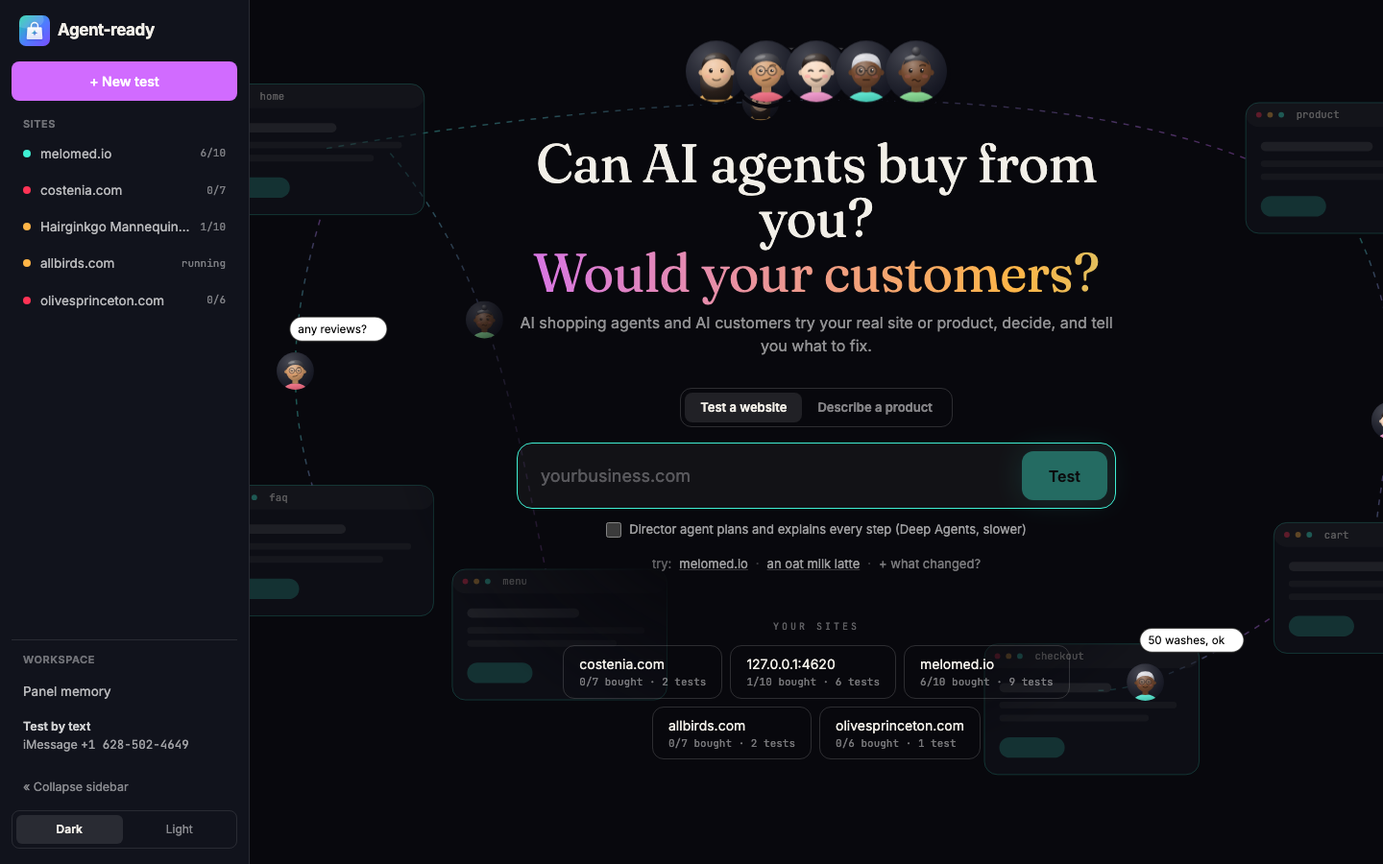
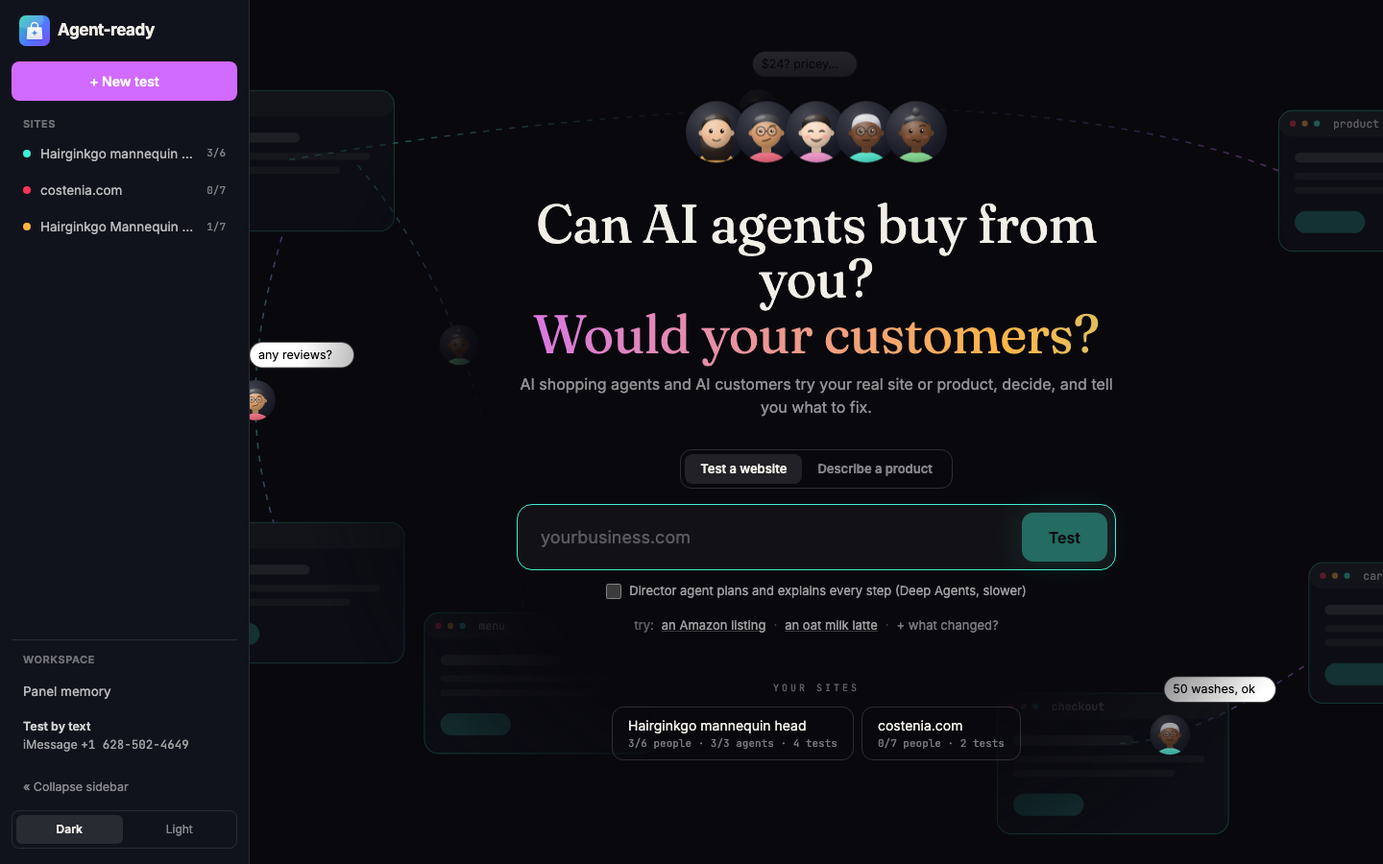
readme uses a real amazon listing instead of melomed: new screenshots (summary, panel, map, gemini friction hotspots, word of mouth, pdf, persona journey); gemini 3.5 flash (has free quota); funnel no longer drops on one-page stores; missing tests show a message instead of a blank page; 'an Amazon l

diff --git a/web/src/Simulate.tsx b/web/src/Simulate.tsx
@@ -88,6 +88,7 @@ const host = (u: string) => u.replace(/^https?:\/\//, "").replace(/\/.*$/, "");
 
 export function SimView({ id }: { id: string }) {
   const [sim, setSim] = useState<Sim | null>(null);
+  const [missing, setMissing] = useState(false);
   const [cast, setCast] = useState<Persona[] | null>(null);
   const [editing, setEditing] = useState<{ p: Persona; isNew: boolean } | null>(null);
   const [showWhy, setShowWhy] = useState(false);
@@ -111,13 +112,14 @@ export function SimView({ id }: { id: string }) {
 
   useEffect(() => {
     let alive = true;
-    const tick = () => fetch(`/api/sims/${id}`).then((r) => r.json()).then((s: Sim) => { if (alive) { setSim(s); if (s.status === "awaiting_approval" && !cast) setCast(s.personas); } }).catch(() => {});
+    const tick = () => fetch(`/api/sims/${id}`).then((r) => r.json()).then((s: Sim) => { if (alive && !s.id) setMissing(true); if (alive && s.id) { setSim(s); if (s.status === "awaiting_approval" && !cast) setCast(s.personas); } }).catch(() => {});
     tick();
     const building = !sim || ["casting", "briefing", "resuming"].includes(sim.status);  // stream the agent's reasoning smoothly
     const t = setInterval(() => { if (!sim || !["done", "error"].includes(sim.status)) tick(); }, building ? 600 : 1500);
     return () => { alive = false; clearInterval(t); };
   }, [id, sim?.status]); // eslint-disable-line
 
+  if (missing) return <div className="grid h-[60vh] place-items-center text-center text-white/60"><div><p className="text-[18px]">This test isn't here anymore.</p><a href="#" className="mt-3 inline-block underline">Start a new test</a></div></div>;
   if (!sim) return <div className="grid h-[60vh] place-items-center font-mono text-white/40">loading…</div>;
 
   async function recast() {
@@ -158,7 +160,7 @@ export function SimView({ id }: { id: string }) {
     <div className="mx-auto max-w-[1400px] px-6 pb-16">
       {/* one headline that always says what is happening */}
       <div className="pt-6 text-center">
-        <div className="font-mono text-[12px] text-white/40">{sim.round ? <span className="mr-2 rounded-full px-2 py-0.5 font-semibold text-black" style={{ background: C.brain }}>round {sim.round + 1} · they remember round {sim.round}</span> : null}{host(sim.input.url)}{sim.input.context ? ` · ${sim.input.context}` : ""}{sim.input.world ? ` · ${sim.input.world}` : ""}</div>
+        <div className="font-mono text-[12px] text-white/40">{sim.round ? <span className="mr-2 rounded-full px-2 py-0.5 font-semibold text-black" style={{ background: C.brain }}>round {sim.round + 1} · they remember round {sim.round}</span> : null}{/\/api\/product\//.test(sim.input.url) ? "Amazon listing, rebuilt from the public Amazon Reviews 2023 dataset" : host(sim.input.url)}{sim.input.context ? ` · ${sim.input.context}` : ""}{sim.input.world ? ` · ${sim.input.world}` : ""}</div>
         <h1 className="mt-2 font-serif text-[40px] leading-tight">
           {["casting", "briefing"].includes(sim.status) && <>Casting customers for {name}<span className="animate-pulse">…</span></>}
           {sim.status === "awaiting_approval" && <>Review your test panel</>}
@@ -434,12 +436,13 @@ function funnel(sim: Sim) {
   const people = sim.personas.filter((p) => p.kind !== "agent");
   const steps = (id: string) => sim.live[id] ?? [];
   const landed = people.filter((p) => steps(p.id).length > 0);
-  const explored = landed.filter((p) => new Set(steps(p.id).map((x) => x.url.split("#")[0])).size > 1);
   const bought = landed.filter((p) => outcome(sim, p.id) === "bought");
   const acted = landed.filter((p) => steps(p.id).some((x) => x.cart) || outcome(sim, p.id) === "bought");
+  // A one-page store has nothing to click past, so scrolling on or acting counts as engaging. Keeps the funnel monotonic.
+  const explored = landed.filter((p) => steps(p.id).length > 1 || acted.includes(p));
   return [
     { label: "Landed on the site", n: landed.length },
-    { label: "Explored past the first page", n: explored.length },
+    { label: "Kept looking past the first screen", n: explored.length },
     { label: "Reached a buy decision (cart, buy, download)", n: acted.length },
     { label: "Converted", n: bought.length },
   ];

diff --git a/data/amazon_pages/B09LHS6RGF.html b/data/amazon_pages/B09LHS6RGF.html
@@ -1,0 +1,12 @@
+<!doctype html><html><head><meta charset="utf-8"><title>Hairginkgo Mannequin Head 100% Real Hair Manikin Head Styling Hairdresser Training Head Cosmetology Doll Head for Dyeing Cutting Braiding Practice with Clamp Stand (2022B0214)</title>
+<style>body{font-family:system-ui,sans-serif;max-width:980px;margin:24px auto;padding:0 16px;color:#111}
+.grid{display:grid;grid-template-columns:380px 1fr;gap:32px}img{max-width:100%;border-radius:12px}
+.price{font-size:28px;font-weight:700;margin:8px 0}button{background:#ffd814;border:0;border-radius:20px;padding:12px 28px;font-size:16px;cursor:pointer}
+th{text-align:left;padding-right:12px;color:#555}</style></head><body>
+<div class="grid"><div><img src="https://m.media-amazon.com/images/I/41anWv1qtQL.jpg" alt="Hairginkgo Mannequin Head 100% Real Hair Manikin Head Styling Hairdresser Training Head Cosmetology Doll Head for Dyeing Cutting Braiding Practice with Clamp Stand (2022B0214)"></div><div>
+<h1>Hairginkgo Mannequin Head 100% Real Hair Manikin Head Styling Hairdresser Training Head Cosmetology Doll Head for Dyeing Cutting Braiding Practice with Clamp Stand (2022B0214)</h1><div>by HAIRGINKGO</div>
+<div class="price">$27.99</div>
+<button onclick="this.textContent='Added to cart ✓'">Add to Cart</button>
+<h3>About this item</h3><ul><li>★ Individual Hair Strand:14 inches.</li><li>★ Material: 100% real hair, Color: #2 Black.</li><li>★ Professional - Ideal for Braiding,Curling,Cutting,Heat styled,Styling,etc.Perfect for cosmetology school and in salon education.Can be used by hairdresser, hair stylist, barber shop and the cosmetology school students.</li><li>★ Entertaining &amp; Learning - Doing hair with your kid, cultivate hands-on ability and develop imagination, this Training Head could be the bridge that sharing wonderful time with your kids.</li><li>★ Come with Free Table clamp holder, Note: For first used, pls comb from the hair bottom to above; It is common for losing a little hair first time and won&#x27;t happen the next time.</li></ul></div></div>
+<h3>Product description</h3><p>About Hairginkgo:</p><p>Hairginkgo is a brand registered in America. We are a factory who manufactured the manikins, wigs and have more than 15 years of experience in this sector.</p><p>Our main market is USA, European countries, Japan and Brazil and have many retailers in these countries.</p><p>Healthy and High quality hair, exquisite facial make up and Vinyl head could aspire the stylist. At the same time, it would be a wonderful present for the little girl.</p><p>100% Satisfaction &amp; Further Service: We take full responsibility for product quality. Please contact us if you have Any Problem of our product or service.</p><p>Note: Specific Usage of Different Material Hair</p><p>Human Hair - Dyeing, Bleaching, Braiding, Natural Hair Styles, Straightening, Curling, etc.</p><p>Real Hair - Recommended for Braiding, Natural Hair Styles, Straightening, Curling, etc.</p><p>Synthetic Fiber - Recommended for Braiding, Natural Hair Styles,can be Straightening, Curling but need to mind the temperature of hairdressing tool.</p><p>Package includes:</p><p>1 X Training Head</p><p>1 X FREE Table Clamp</p>
+<h3>Details</h3><table><tr><th>Brand</th><td>HAIRGINKGO</td></tr><tr><th>Color</th><td>Black</td></tr><tr><th>Material</th><td>Human Hair, Synthetic</td></tr><tr><th>Extension Length</th><td>14 Inches</td></tr><tr><th>Material Feature</th><td>Natural</td></tr><tr><th>Package Dimensions</th><td>11.34 x 6.81 x 6.77 inches; 2.12 Pounds</td></tr><tr><th>Item model number</th><td>92019B0214</td></tr><tr><th>Manufacturer</th><td>HAIRGINKGO</td></tr></table></body></html>

diff --git a/web/src/Print.tsx b/web/src/Print.tsx
@@ -19,9 +19,9 @@ export function PrintReport({ id }: { id: string }) {
   const name = sim.input.name || sim.input.url;
   const date = new Date().toLocaleDateString("en-US", { year: "numeric", month: "long", day: "numeric" });
   const steps = (pid: string) => sim.live[pid] ?? [];
-  const explored = people.filter((p) => new Set(steps(p.id).map((x) => x.url)).size > 1).length;
+  const explored = people.filter((p) => steps(p.id).length > 1 || steps(p.id).some((x) => x.cart) || outcome(sim, p.id) === "bought").length;
   const acted = people.filter((p) => steps(p.id).some((x) => x.cart) || outcome(sim, p.id) === "bought").length;
-  const funnel = [["Landed on the site", people.length], ["Explored past the first page", explored], ["Reached a buy decision", acted], ["Converted", bought]] as const;
+  const funnel = [["Landed on the site", people.length], ["Kept looking past the first screen", explored], ["Reached a buy decision", acted], ["Converted", bought]] as const;
 
   return (
     <div id="print-ready" className="print-doc mx-auto max-w-[780px] bg-[#ffffff] px-10 py-10 text-[#101828]">
@@ -31,13 +31,13 @@ export function PrintReport({ id }: { id: string }) {
       </div>
 
       <h1 className="mt-6 text-[28px] font-bold leading-tight tracking-tight">{name}</h1>
-      <div className="mt-1 text-[13px] text-[#667085]">{sim.input.url}{sim.input.context ? ` · change tested: ${sim.input.context}` : ""}{sim.round ? ` · round ${sim.round + 1}` : ""}</div>
+      <div className="mt-1 text-[13px] text-[#667085]">{/\/api\/product\//.test(sim.input.url) ? "Amazon listing, rebuilt from the public Amazon Reviews 2023 dataset" : sim.input.url}{sim.input.context ? ` · change tested: ${sim.input.context}` : ""}{sim.round ? ` · round ${sim.round + 1}` : ""}</div>
 
       <div className="mt-6 grid grid-cols-4 gap-3">
         {[["Simulated conversion", pct(bought, people.length), `${bought} of ${people.length} panelists`],
           ["AI agent checkout", pct(agentsOk, agents.length), `${agentsOk} of ${agents.length} agents`],
           ["Sessions", String(Object.keys(sim.live).length), "on the real site"],
-          ["Top blocker", sim.actions?.[0] ? `${sim.actions[0].who.length} lost` : "–", "see recommendation 1"]].map(([l, v, s]) => (
+          ["Top blocker", sim.actions?.[0] ? `${sim.actions[0].who.length} hit it` : "–", "see recommendation 1"]].map(([l, v, s]) => (
           <div key={l} className="rounded-lg border border-[#e4e7ec] p-3"><div className="text-[11px] text-[#667085]">{l}</div><div className="text-[24px] font-bold">{v}</div><div className="text-[11px] text-[#667085]">{s}</div></div>
         ))}
       </div>

diff --git a/web/src/Lens.tsx b/web/src/Lens.tsx
@@ -7,6 +7,7 @@ interface Shot { persona_id: string; persona: string; archetype: string; model: 
 interface Hotspot { page: string; label: string; issue: string; fix: string; severity: number; count: number; personas: string[] }
 interface LensData { model: string; shots: Shot[]; hotspots: Hotspot[]; summary: string }
 
+const page = (s: string) => s.replace(/\/api\/product\/[\w-]+\.html/g, "the product page");
 const sev = (s: number) => (s >= 2.5 ? C.loss : s >= 1.5 ? C.mid : C.brain);
 
 export function Lens({ simId }: { simId: string }) {
@@ -36,11 +37,11 @@ export function Lens({ simId }: { simId: string }) {
       {state === "running" && <p className="mt-8 text-center text-white/60">Gemini is reading the screenshots<span className="animate-pulse">…</span></p>}
       {state === "ready" && lens && (
         <>
-          {lens.summary && <p className={`${PANEL} mx-auto mt-6 max-w-4xl p-4 text-[15px] leading-relaxed`}>{lens.summary}</p>}
+          {lens.summary && <p className={`${PANEL} mx-auto mt-6 max-w-4xl p-4 text-[15px] leading-relaxed`}>{page(lens.summary)}</p>}
           <div className="mt-6 grid gap-3 md:grid-cols-2">
             {lens.hotspots.map((h, i) => (
               <div key={i} className={`${PANEL} p-4`} style={{ borderLeft: `4px solid ${sev(h.severity)}` }}>
-                <div className="flex items-baseline justify-between gap-2"><span className="text-[15px] font-semibold">{h.label}</span><span className="font-mono text-[11px] text-white/50">{h.count} customer{h.count > 1 ? "s" : ""} · {h.page}</span></div>
+                <div className="flex items-baseline justify-between gap-2"><span className="text-[15px] font-semibold">{h.label}</span><span className="font-mono text-[11px] text-white/50">{h.count} customer{h.count > 1 ? "s" : ""} · {page(h.page)}</span></div>
                 <p className="mt-1 text-[13.5px] text-white/75">{h.issue}</p>
                 <p className="mt-1 text-[13px]"><span className="font-semibold" style={{ color: C.win }}>Fix:</span> <span className="text-white/75">{h.fix}</span></p>
               </div>

diff --git a/web/src/Start.tsx b/web/src/Start.tsx
@@ -26,6 +26,10 @@ const ROUTES = [
   { path: "M1210 660 C 1120 720, 1060 740, 1020 740", dur: 7, seed: 913, a: "quality-first", age: 63, f: "interested", say: "50 washes, ok" },
 ] as const;
 
+// A real Amazon listing (public Amazon Reviews 2023 dataset), rebuilt and served by our API. In local dev the API is on
+// 127.0.0.1:4620 (the vite dev server only listens on IPv6); deployed, the API shares the page's origin.
+const amazonExample = () => (location.port === "4621" ? "http://127.0.0.1:4620" : location.origin) + "/api/product/B09LHS6RGF.html";
+
 function Scene() {
   return (
     <svg className="pointer-events-none absolute inset-0 h-full w-full" viewBox="0 0 1440 860" preserveAspectRatio="xMidYMid slice" aria-hidden
@@ -135,8 +139,8 @@ export function Start({ onGo, onOpen }: { onGo: (b: StartInput) => void; onOpen:
 
       <div className="mt-4 flex flex-wrap justify-center gap-2 text-[13px]">
         <span className="text-white/35">try:</span>
-        <button onClick={() => { setMode("site"); setUrl("melomed.io"); onGo({ url: "melomed.io", description: "", name: "", price: "", ...extra() }); }}
-          className="text-white/60 underline decoration-white/20 hover:text-white">melomed.io</button>
+        <button onClick={() => { const u = amazonExample(); setMode("site"); setUrl(u); onGo({ url: u, description: "", name: "Hairginkgo mannequin head", price: "", ...extra() }); }}
+          className="text-white/60 underline decoration-white/20 hover:text-white">an Amazon listing</button>
         <span className="text-white/20">·</span>
         <button onClick={() => { setMode("describe"); setDescription(EXAMPLE.description); setName(EXAMPLE.name); setPrice(EXAMPLE.price); go(EXAMPLE); }}
           className="text-white/60 underline decoration-white/20 hover:text-white">an oat milk latte</button>

diff --git a/web/src/Timeline.tsx b/web/src/Timeline.tsx
@@ -24,7 +24,7 @@ export function Timeline({ url, current }: { url: string; current: string }) {
               {prev && r.status === "done" && up !== 0 && <span className="font-mono text-[11px]" style={{ color: up > 0 ? C.win : C.loss }}>{up > 0 ? "▲" : "▼"}</span>}
             </div>
             <div className="mt-0.5 h-1 w-full overflow-hidden rounded-full bg-white/10"><div className="h-full rounded-full" style={{ width: `${r.of ? (r.bought / r.of) * 100 : 0}%`, background: C.win }} /></div>
-            {!!r.agents_of && <div className="mt-1 font-mono text-[10px] text-white/45">agents {r.agents_bought}/{r.agents_of}</div>}
+            <div className={`mt-1 font-mono text-[10px] text-white/45 ${r.agents_of ? "" : "invisible"}`}>agents {r.agents_bought ?? 0}/{r.agents_of ?? 0}</div>
             <div className="mt-1 max-w-[150px] truncate text-[11px] text-white/50">{r.context || (r.round ? "after learning" : "first test")}</div>
           </a>
         );

diff --git a/web/src/SiteMap.tsx b/web/src/SiteMap.tsx
@@ -22,6 +22,7 @@ function keyOf(u: string, rootHost: string) {
     const x = new URL(u);
     const path = x.pathname.replace(/\/+$/, "") || "/";
     const host = x.host.replace(/^www\./, "");
+    if (path.startsWith("/api/product/")) return { key: host + path, label: "Product page" };  // the rebuilt Amazon listing
     const label = host !== rootHost ? host + (path === "/" ? "" : " · " + decodeURIComponent(path.split("/").filter(Boolean).pop() ?? "").replace(/[-_]+/g, " ")) : path === "/" ? "Home" : decodeURIComponent(path.split("/").filter(Boolean).pop() ?? "").replace(/[-_]+/g, " ").replace(/\.\w+$/, "");
     return { key: host + path, label: label.charAt(0).toUpperCase() + label.slice(1) };
   } catch { return { key: u, label: u }; }

diff --git a/b2a/models.py b/b2a/models.py
@@ -51,7 +51,7 @@ def shoppers() -> dict:
         out["GPT"] = ChatOpenAI(model=(os.getenv("GPT_SHOPPER") or "gpt-5.4-mini"), timeout=60, max_retries=2)
     if os.getenv("GOOGLE_API_KEY"):
         from langchain_google_genai import ChatGoogleGenerativeAI
-        out["Gemini"] = ChatGoogleGenerativeAI(model=(os.getenv("GEMINI_SHOPPER") or "gemini-2.5-flash"), timeout=60, max_retries=2)
+        out["Gemini"] = ChatGoogleGenerativeAI(model=(os.getenv("GEMINI_SHOPPER") or "gemini-3.5-flash"), timeout=60, max_retries=2)
     return out
 
 
@@ -61,7 +61,7 @@ def persona_models() -> dict:
     out = {}
     if os.getenv("GOOGLE_API_KEY"):
         from langchain_google_genai import ChatGoogleGenerativeAI
-        out["Gemini"] = ChatGoogleGenerativeAI(model=(os.getenv("GEMINI_MODEL") or "gemini-2.5-flash"), timeout=60, max_retries=2)
+        out["Gemini"] = ChatGoogleGenerativeAI(model=(os.getenv("GEMINI_MODEL") or "gemini-3.5-flash"), timeout=60, max_retries=2)
     if _anthropic_key():
         out["Claude"] = fast()
     if os.getenv("OPENAI_API_KEY"):

diff --git a/server.py b/server.py
@@ -81,7 +81,9 @@ from fastapi.staticfiles import StaticFiles
 sim.SIMS.mkdir(parents=True, exist_ok=True)
 app.mount("/api/shots", StaticFiles(directory=str(sim.SIMS)), name="shots")
 (sim.RUNS / "amazon" / "pages").mkdir(parents=True, exist_ok=True)
-app.mount("/api/product", StaticFiles(directory=str(sim.RUNS / "amazon" / "pages")), name="product")  # Amazon eval product pages
+# Amazon eval product pages: freshly built ones in runs/, else the committed demo listing in data/ (so a deploy has it).
+_pages = sim.RUNS / "amazon" / "pages"
+app.mount("/api/product", StaticFiles(directory=str(_pages if _pages.exists() else __import__("pathlib").Path(__file__).parent / "data" / "amazon_pages")), name="product")  # Amazon eval product pages
 
 
 class SimIn(BaseModel):

diff --git a/README.md b/README.md
@@ -7,10 +7,11 @@ AI shopping agents and AI customers open your real site, click around, decide wh
 
 <p align="center">
   Built at <b>HackPrinceton Fall 2026</b> &nbsp;·&nbsp; 
-  Track: <b>Business &amp; Enterprise</b> &nbsp;
+  Track: <b>Business &amp; Enterprise</b>
+</p>
 
 <p align="center">
-  <img src="docs/media/summary.png" alt="Results for melomed.io: simulated conversion 43%, AI agent checkout 67%, the top blocker, a conversion funnel, the top three recommendations and the most-shared complaint" width="100%">
+  <img src="docs/media/summary.png" alt="Results for a real Amazon listing (a mannequin head): 3 of 6 customers would buy, 3 of 3 AI shopping agents could check out, the top blocker, a conversion funnel, the top recommendations and the most-shared complaint" width="100%">
 </p>
 
 ---
@@ -19,7 +20,7 @@ AI shopping agents and AI customers open your real site, click around, decide wh
 
 **You used to design your website for people.** Someone searched, clicked your site, looked at the photos, felt something, and bought.
 
-**Now an AI agent shops first, and a person approves.** People tell ChatGPT, Gemini or Grok *"find me a mood journal app under $5 a month and get it."* The agent reads your site, compares you with the others, and builds the shortlist. If it can't find your price or tell whether it's a subscription, it skips you, and you never learn you lost a customer. The person still makes the final call, so you have to win both: **facts for the agent, trust and feeling for the person.**
+**Now an AI agent shops first, and a person approves.** People tell ChatGPT, Gemini or Grok *"find me a meal kit under $60 a week and order it."* The agent reads your site, compares you with the others, and builds the shortlist. If it can't find your price or tell whether it's a subscription, it skips you, and you never learn you lost a customer. The person still makes the final call, so you have to win both: **facts for the agent, trust and feeling for the person.**
 
 By 2030, AI agents could make **10% to 20% of US online shopping** for people, Morgan Stanley forecasts. Already, **nearly 23% of Americans** made at least one AI-assisted purchase in the past month ([Digital Commerce 360, Dec 2025](https://www.digitalcommerce360.com/2025/12/09/morgan-stanley-ai-agentic-shoppers-385-billion-online-sales/)). Traffic from AI sources to US retail sites rose **393%** year over year in Q1 2026, and it **converted 42% better** than other visits ([Adobe via CMOtech, Apr 2026](https://cmotech.news/story/adobe-says-ai-retail-traffic-surges-as-readability-lags)).
 
@@ -35,7 +36,7 @@ By 2030, AI agents could make **10% to 20% of US online shopping** for people, M
 
 **Paste your website (or text it). Two kinds of shoppers try it:**
 
-- **AI shopping agents** (Gemini, Claude and GPT), each sent on the same errand a real user would give them, such as *"Find me an app that builds a playlist from my mood, and tell me what it costs before I download it."* **Can they buy here?** If not, what fact were they missing?
+- **AI shopping agents** (Gemini, Claude and GPT), each sent on the same errand a real user would give them, such as *"Find me a 14-inch training mannequin head with 100% real hair, and order it if it comes with a free table clamp, as long as the total stays around $28."* **Can they buy here?** If not, what fact were they missing?
 - **Customers with real preferences:** a price-sensitive student, a quality-first nurse, a skeptic, a first-timer, each with a budget and a goal, each played by a different model.
 
 They use your **real site** in a real browser, click through it, decide, and **talk about it**. Then you get **a short list of fixes**, each tagged *for people*, *for AI agents* or *both*: "the checkout takes too many steps," "it's priced above what they'd pay," "an agent can't tell if it's a subscription." Change something, test again with the same shoppers, and see if it worked.
@@ -53,14 +54,14 @@ They use your **real site** in a real browser, click through it, decide, and **t
 - **Can AI agents buy here?** One plain shopping agent per model (Gemini, Claude, GPT) gets a user's errand written from your site and tries to complete it. They're logical, not emotional: if they can't verify the price or terms, they don't buy, and they say what was missing. Shown as robots on the map.
 - **Do these first.** One prioritized list of 3 to 5 fixes from everything above, each with the evidence, who it wins back, the page it's on, its effort, and whether it's for people, AI agents or both.
 - **Different AI, different taste.** Customers are played by different model families (Gemini, Claude and GPT), and the result is broken down by model, so one lab's taste doesn't decide for everyone.
-- **Then they talk about it.** Every customer posts about their visit in their own voice. Then they read each other's posts and reply, repost or scroll past, for two rounds. The result is a feed and a who-reacted-to-whom network. PageRank over replies and reposts finds whose opinion spreads furthest, so you know which complaint to fix first. On melomed.io, a post about the free journal app spread furthest because another customer challenged it about encryption, and the shared worry that travelled was that "free" never says what happens after.
+- **Then they talk about it.** Every customer posts about their visit in their own voice. Then they read each other's posts and reply, repost or scroll past, for two rounds. The result is a feed and a who-reacted-to-whom network. PageRank over replies and reposts finds whose opinion spreads furthest, so you know which complaint to fix first. On a real Amazon listing for a training mannequin head, the doubt that spread furthest was whether the hair is really human. A skeptic's post carried it, and five other customers echoed it in their replies, so the top fix became "state one hair material and add proof."
 - **What would win them over.** Each customer who didn't buy says what would have changed their mind, and an analyst agent writes a report: buy rate by customer type, where people got stuck, what convinced the buyers, the top 3 fixes and which complaint is most likely to spread.
-- **Teach them what real customers do.** Type what actually happens ("most of our buyers are college students who journal at night, nobody reads the Science page"). Each persona the account applies to rewrites its memory, and the change is tagged **from real people**.
+- **Teach them what real customers do.** Type what actually happens ("most of our buyers are cosmetology students buying for class, and they care about shedding more than price"). Each persona the account applies to rewrites its memory, and the change is tagged **from real people**.
 - **Change something and test again.** Run the same customers again, carrying their memory, so before and after is a fair comparison. Every test of your site is on a timeline, for example **3/7** bought, then **5/7** after they learned.
 - **Customers remember across businesses.** What price-sensitive shoppers learned on one site is saved to long-term memory, so the next business's price-sensitive persona starts smarter.
 
 <p align="center">
-  <img src="docs/media/meet.png" alt="Review your test panel: seven customers with their age, type, which model plays them and whether they carry memory from earlier tests, below the timeline of earlier tests for this site" width="90%">
+  <img src="docs/media/meet.png" alt="Review your test panel: five customers with their age, type, share of buyers, which model plays them and whether they carry memory from earlier tests, plus an Add customer button and the AI shopping agents' errand" width="90%">
 </p>
 
 <p align="center">
@@ -68,11 +69,19 @@ They use your **real site** in a real browser, click through it, decide, and **t
 </p>
 
 <p align="center">
+  <img src="docs/media/hotspots.png" alt="Friction hotspots: Gemini boxes the exact part of each screenshot where customers got stuck, such as an unclear material line and missing ratings, with a fix for each" width="90%">
+</p>
+
+<p align="center">
+  <img src="docs/media/word-of-mouth.png" alt="Word of mouth: the customers' posts next to the who-reacted-to-whom network, with the most influential customer highlighted and a summary of the opinion that spread furthest" width="90%">
+</p>
+
+<p align="center">
   <img src="docs/media/report.png" alt="Page one of the PDF report: KPIs, conversion funnel and prioritized recommendations" width="60%">
 </p>
 
 <p align="center">
-  <img src="docs/media/replay.png" alt="A session replay: each step shows the real screenshot the persona saw, what they thought, and what they clicked, with a 'chose to buy' tag on the step where they clicked Download on the App Store" width="90%">
+  <img src="docs/media/replay.png" alt="One customer's page: who she is, her goal, budget and memory, then her journey, each step with the real screenshot she saw, what she thought, and a buy action tag where she clicked Add to Cart" width="90%">
 </p>
 
 ## How we keep it honest
